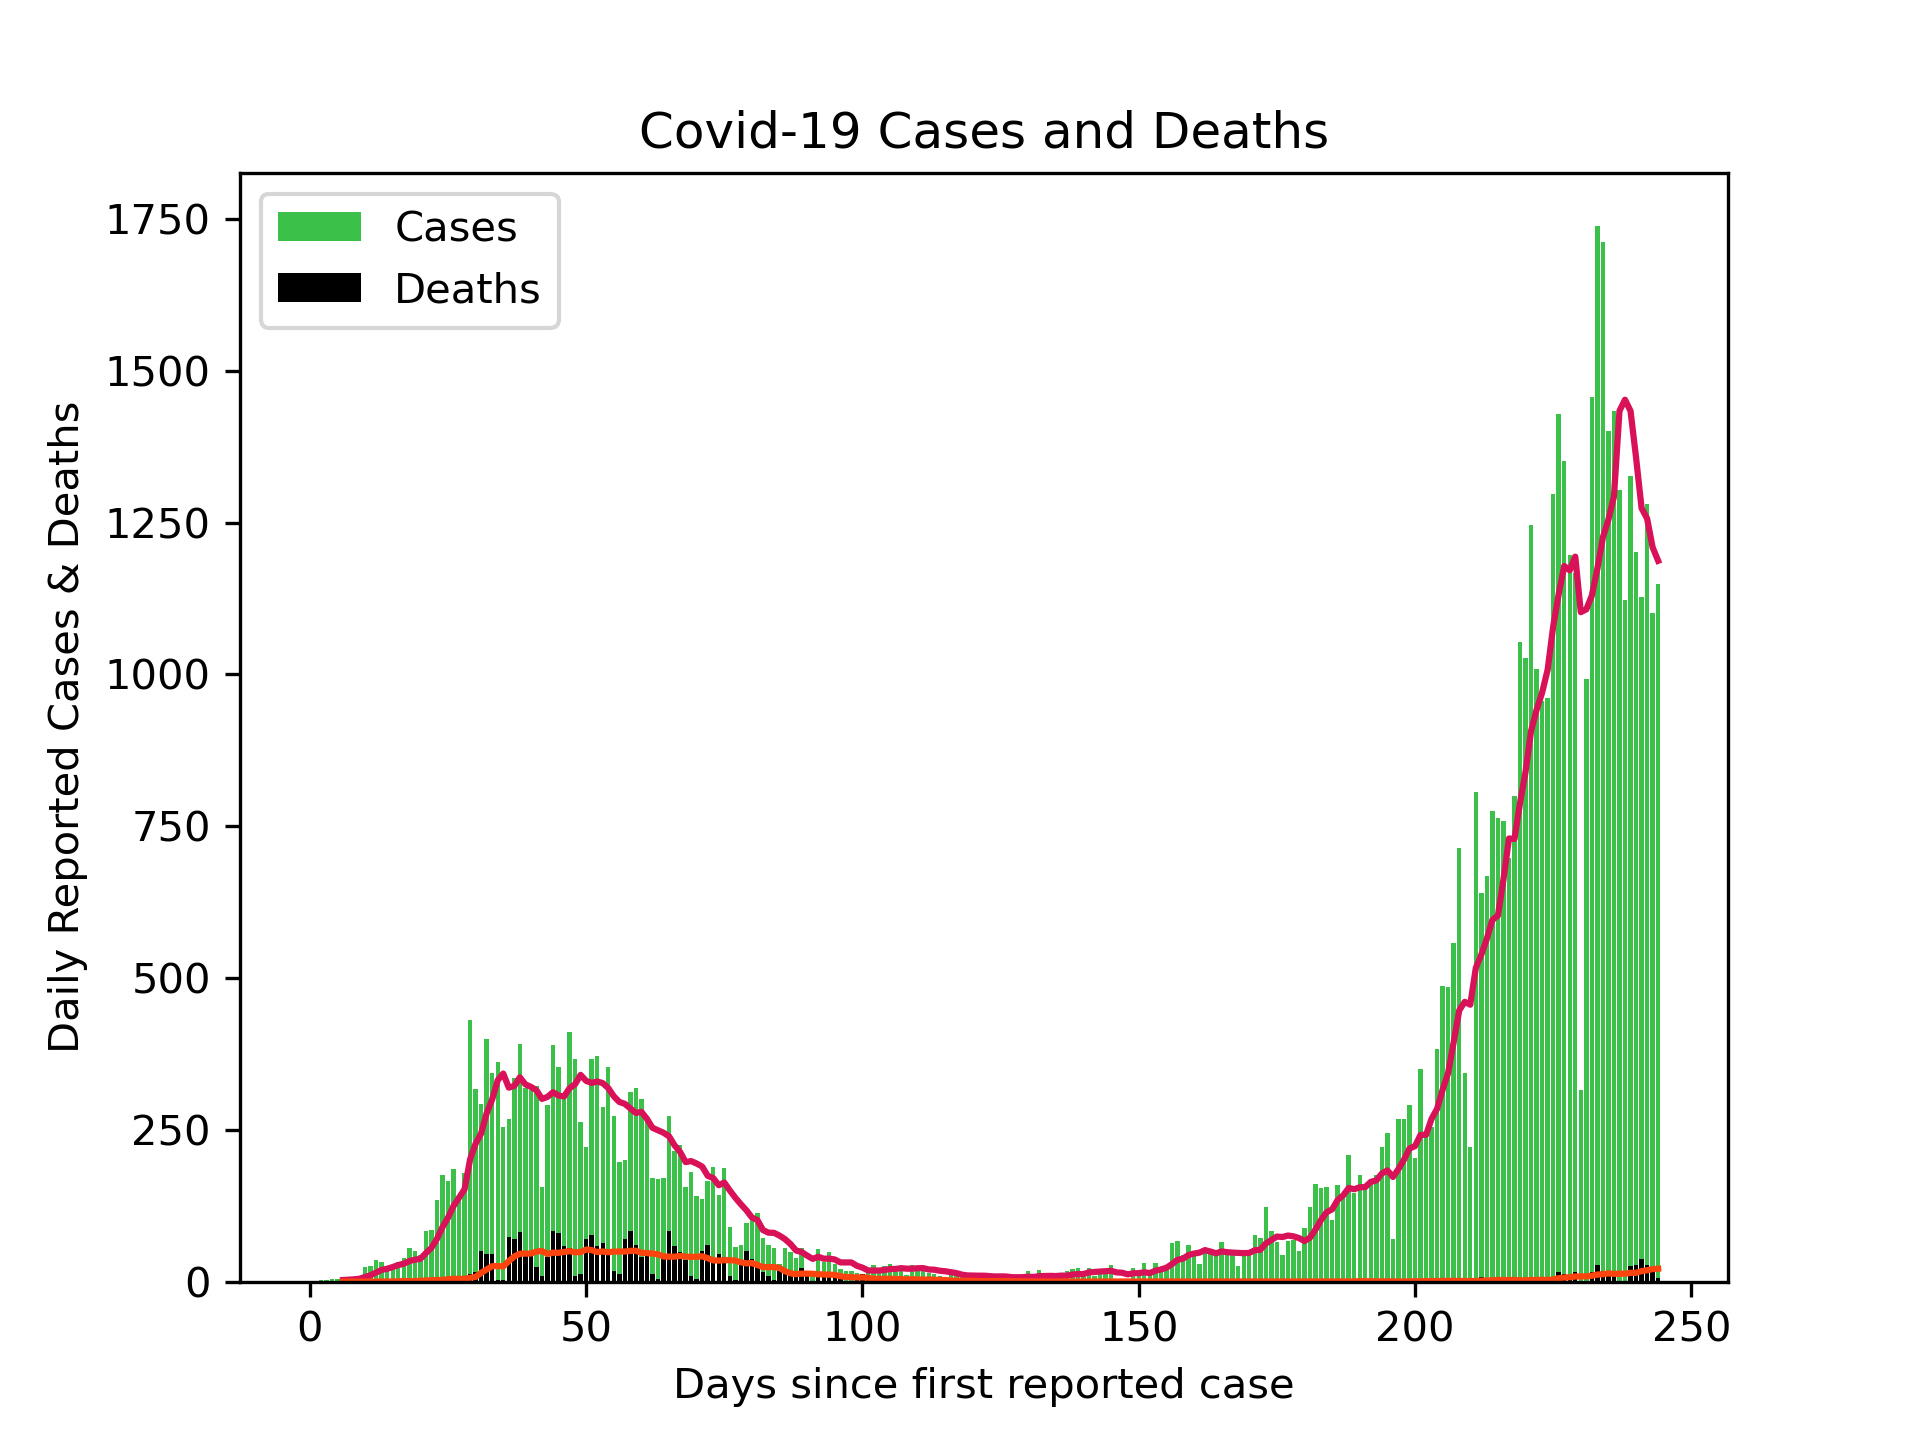
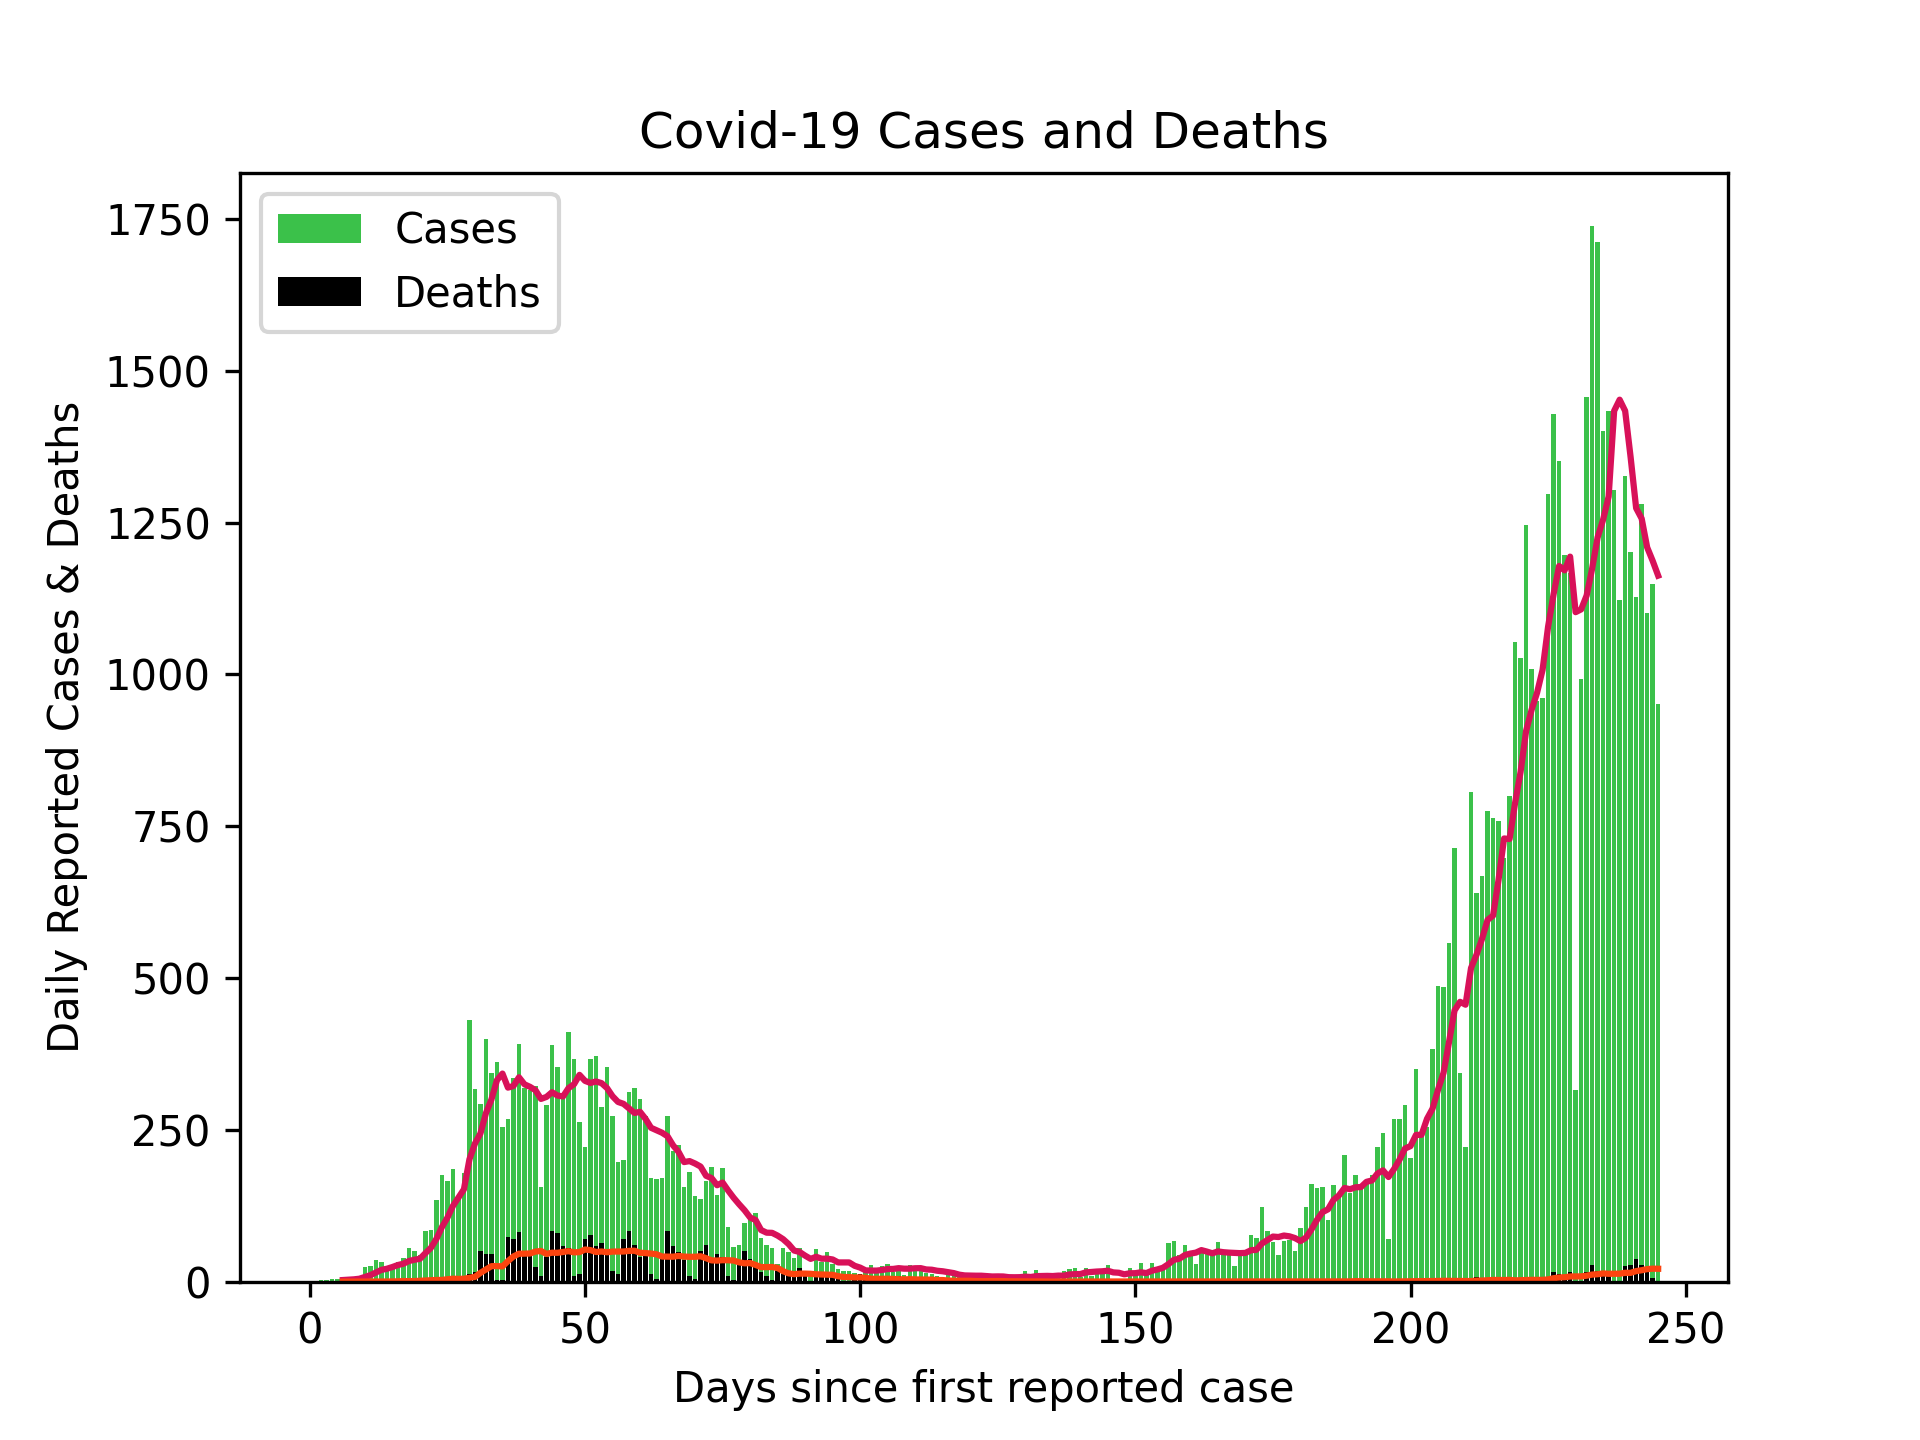
Updated Scottish Cases 02/11/20

diff --git a/README.md b/README.md
@@ -1,3 +1,3 @@
-# Scottish Cases 01/11/20
+# Scottish Cases 02/11/20
 ![alt](scottish_cases.png)
 
